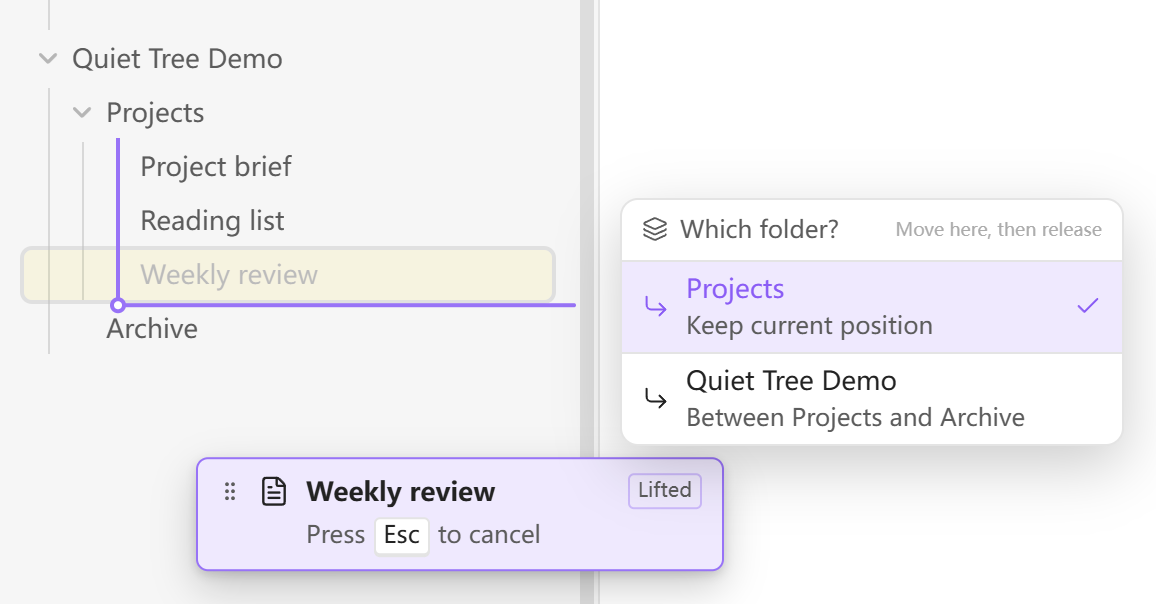
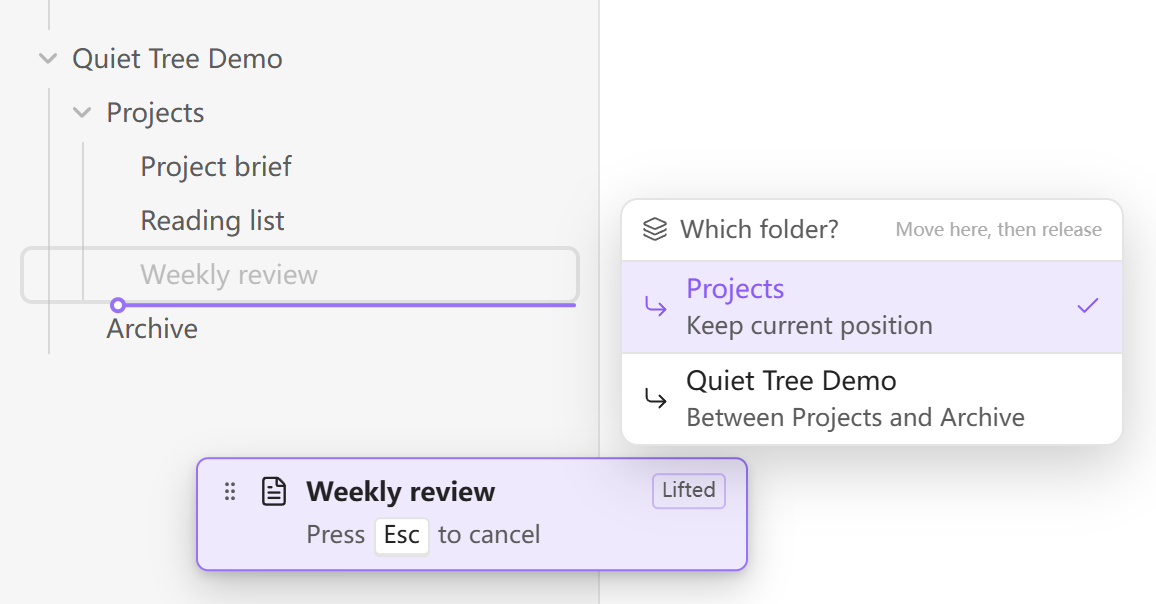
Remove the vertical drag guide

diff --git a/src/drag.ts b/src/drag.ts
@@ -33,7 +33,6 @@ export class DragController {
   private hit: DragHit = emptyHit;
   private ghost?: HTMLElement;
   private line?: HTMLElement;
-  private guide?: HTMLElement;
   private surface?: HTMLElement;
   private pickerEl?: HTMLElement;
   private cancelZone?: HTMLElement;
@@ -381,10 +380,6 @@ export class DragController {
     this.line = this.dom.createDiv();
     this.line.className = "qt-drop-line";
     this.doc.body.append(this.line);
-    this.guide = this.dom.createDiv();
-    this.guide.className = "qt-parent-guide";
-    this.guide.setAttribute("aria-hidden", "true");
-    this.doc.body.append(this.guide);
     this.pickerEl = this.dom.createDiv();
     this.pickerEl.className = "qt-picker";
     this.pickerEl.hidden = true;
@@ -618,7 +613,6 @@ export class DragController {
       target.kind === "inside" ||
       lineY < bounds.top ||
       lineY > bounds.bottom;
-    this.guide!.hidden = true;
     if (target) {
       // Derive indentation from the live theme, rather than assuming 18 px steps.
       const parent = rows.find((row) => row.id === target.parentId);
@@ -637,24 +631,6 @@ export class DragController {
       );
       this.line!.style.transform = `translate3d(${left}px,${lineY}px,0)`;
       this.line!.style.width = `${Math.max(20, bounds.right - left - 12)}px`;
-      if (!this.line!.hidden) {
-        const top = Math.max(
-          bounds.top,
-          parent?.rect.bottom ??
-            rows.find((row) => row.rect.bottom > bounds.top)?.rect.top ??
-            bounds.top,
-        );
-        const descendants = target.parentId
-          ? rows.filter((row) => row.id.startsWith(target.parentId! + "/"))
-          : rows;
-        const bottom = Math.min(bounds.bottom, descendants.at(-1)?.rect.bottom ?? lineY);
-        this.guide!.hidden = top >= bottom;
-        Object.assign(this.guide!.style, {
-          left: `${left}px`,
-          top: `${top}px`,
-          height: `${Math.max(0, bottom - top)}px`,
-        });
-      }
       if (target.kind === "inside") {
         this.activeFolder = rows.find((row) => row.id === target.parentId)?.el;
         this.activeFolder?.classList.add("qt-inside");
@@ -792,8 +768,6 @@ export class DragController {
     this.root.classList.remove("qt-dragging");
     this.surface?.remove();
     this.surface = undefined;
-    this.guide?.remove();
-    this.guide = undefined;
     this.cancelZone?.remove();
     this.cancelZone = undefined;
     this.cancelHovered = false;

diff --git a/tests/native-drag-feedback.js b/tests/native-drag-feedback.js
@@ -84,16 +84,18 @@
     await sleep(300);
     drag.resolve();
     check(
-      drag.picker && drag.hit.noOp && !drag.line.hidden && !drag.guide.hidden,
-      "Last-child no-op boundary shows both guides",
+      drag.picker &&
+        drag.hit.noOp &&
+        !drag.line.hidden &&
+        !document.querySelector(".qt-parent-guide"),
+      "Last-child no-op boundary shows the insertion line without a vertical guide",
     );
     check(
       drag.pickerEl.querySelector(".is-selected .qt-picker-text > span").textContent ===
         p.t("unchanged"),
       "No-op option explicitly keeps current position",
     );
-    const innerX = drag.line.style.transform,
-      innerTop = drag.guide.style.top;
+    const innerX = drag.line.style.transform;
     const picker = drag.picker;
     row.dispatchEvent(
       pointer(
@@ -107,16 +109,18 @@
     check(
       !drag.hit.noOp &&
         !drag.line.hidden &&
-        !drag.guide.hidden &&
         drag.line.style.transform !== innerX &&
-        drag.guide.style.top !== innerTop,
-      "Outer choice changes indentation and parent guide range",
+        drag.hit.target.parentId === base &&
+        !document.querySelector(".qt-parent-guide"),
+      "Outer choice changes insertion indentation and target folder without a vertical guide",
     );
     const card = drag.ghost.getBoundingClientRect();
     const chooser = drag.pickerEl.getBoundingClientRect();
     check(
-      card.bottom <= chooser.top || card.top >= chooser.bottom ||
-        card.right <= chooser.left || card.left >= chooser.right,
+      card.bottom <= chooser.top ||
+        card.top >= chooser.bottom ||
+        card.right <= chooser.left ||
+        card.left >= chooser.right,
       "Chooser does not cover the Esc hint",
     );
     document.dispatchEvent(
@@ -152,7 +156,7 @@
         drag.cancelZone.classList.contains("is-active") &&
         !drag.hit.target &&
         drag.line.hidden &&
-        drag.guide.hidden &&
+        !document.querySelector(".qt-parent-guide") &&
         !drag.picker,
       "Cancel area takes precedence over drop targets",
     );

diff --git a/styles.css b/styles.css
@@ -50,15 +50,6 @@
   z-index: 9998;
   background: transparent;
 }
-.qt-parent-guide {
-  position: fixed;
-  width: 2px;
-  z-index: 9998;
-  pointer-events: none;
-  background: var(--interactive-accent);
-  opacity: 1;
-}
-.qt-parent-guide[hidden],
 .qt-ghost-label[hidden] {
   display: none;
 }

diff --git a/docs/guide.zh-CN.md b/docs/guide.zh-CN.md
@@ -5,7 +5,7 @@
 ## 使用
 
 - 默认整行长按且不显示手柄；设置中切换为手柄模式后才显示右侧手柄。鼠标默认等待 200 毫秒并移动 4 像素后提起；触屏长按默认 500 毫秒，提前滑动继续普通滚动。普通点击不显示按压进度横线。
-- 提起时显示浮动卡片，原位置保持稳定。横线表示插入点，竖线表示目标目录范围，空心圆标明交点。
+- 提起时显示浮动卡片，原位置保持稳定。横线表示插入位置，左端空心圆标明起点，缩进和目录选项共同表示目标层级。
 - 在目录末尾停留，会出现层级选项。例如 **A / C 之后** 与 **根目录 / A 与 D 之间**，移向对应选项后松手。
 - 拖到目录中部可以移入；停留可展开目录。列表边缘支持自动滚动。
 - 桌面浮动卡片提示按 Esc 取消；触屏底部显示取消区，拖入后松手取消，离开取消区可继续拖动。切换窗口或在列表外松手也可以取消。手柄获得键盘焦点后，可用 ↑ / ↓ 调整同级顺序。

diff --git a/VALIDATION.md b/VALIDATION.md
@@ -1,4 +1,12 @@
-# 0.4.0 validation
+# Validation
+
+## Unreleased: remove the vertical drag guide
+
+Removed the vertical overlay and its drawing/cleanup code and CSS. The horizontal insertion line, hollow starting point, theme-derived indentation, and folder chooser remain. Updated the documentation preview to show the current interaction.
+
+Typecheck, lint, and all 45 unit tests pass. The Sandbox native drag suite passes 18 checks covering mouse and touch, including last-child no-op feedback, inner/outer destination changes without a vertical overlay, cancellation, and unchanged saved ordering after cancellation. The native preview was visually checked; no runtime errors were captured. Only Sandbox received the test build. The plugin version remains 0.4.0; this change does not create a tag or release.
+
+## 0.4.0
 
 ## Presentation and settings polish
 

diff --git a/README.zh-CN.md b/README.zh-CN.md
@@ -16,7 +16,7 @@
 ## 功能
 
 - **每个目录，自由排序。** 拖动文件和目录即可调整顺序，无需给文件名加编号。
-- **放到哪里，一目了然。** 横线标出插入位置，竖线标出目标目录；遇到多层目录边界，可直接选择放在哪一层。
+- **放到哪里，一目了然。** 横线和起点圆圈标出插入位置，缩进表示层级；遇到多层目录边界，可直接选择目标目录。
 - **沿用熟悉的文件列表。** 保留 Obsidian 原生界面与主题，支持整行拖动和手柄拖动。
 - **鼠标、触屏，各有习惯。** 电脑和手机分别设置长按延迟；电脑显示 Esc 取消提示，触屏提供底部取消区。
 - **排序，随设置一起同步。** 开启 Obsidian Sync 的第三方插件设置同步后，电脑和手机可共享排序。

diff --git a/README.md b/README.md
@@ -16,7 +16,7 @@
 ## Features
 
 - **Arrange each folder your way.** Drag files and folders into a custom order without renaming them.
-- **Choose exactly where to drop.** Position lines and a folder chooser make nested folder boundaries clear.
+- **Choose exactly where to drop.** An insertion line, its indentation, and a folder chooser make nested folder boundaries clear.
 - **Keep the explorer you know.** Use Obsidian’s native file list and your theme. Choose whole-row dragging or a dedicated handle.
 - **Use a mouse or touch.** Separate hold delays for desktop and mobile, with a cancel hint on desktop and a cancel area on touch screens.
 - **Carry your order across devices.** Ordering travels with plugin settings when Obsidian Sync’s community plugin settings sync is enabled.

diff --git a/CHANGELOG.md b/CHANGELOG.md
@@ -1,5 +1,9 @@
 # Changelog
 
+## Unreleased
+
+- Remove the vertical drag guide to avoid covering folder icons and expand/collapse controls. Keep the horizontal insertion line, its hollow starting point, indentation, and folder chooser.
+
 ## 0.4.0
 
 - Show position and parent guides at ambiguous last-child boundaries, including the option to keep the current position.
